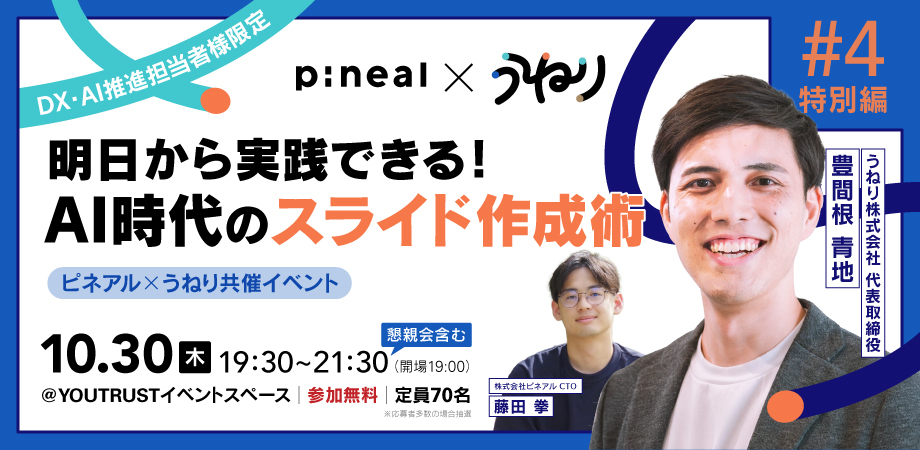
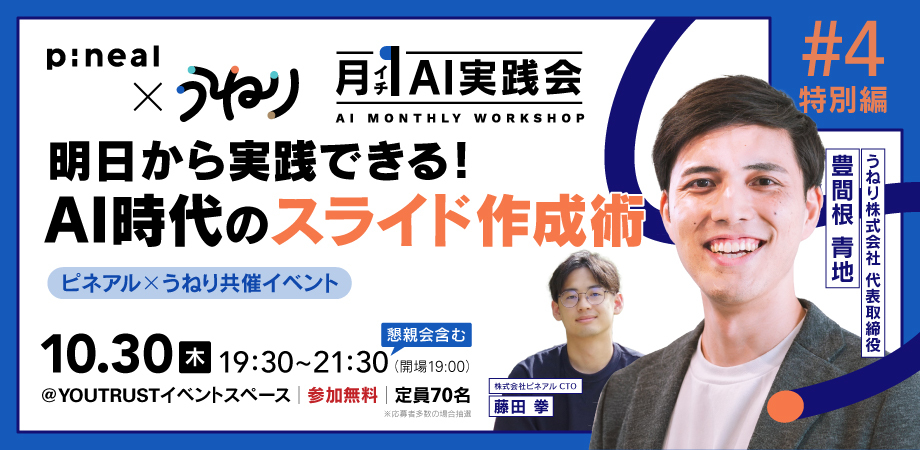
更新: バナー画像、申し込みフォーム、表現の修正
- バナー画像を最新版に差し替え
- 申し込みフォームをMicrosoft Formsに変更
- 「パワポ芸人」を「パワポ社長」に変更（プロフィール部分を除く）
- プログラム説明文を更新
- パネルディスカッションの内容を更新

🤖 Generated with [Claude Code](https://claude.com/claude-code)

Changed region(s): [[0.0, 0.0, 0.6696, 0.28], [0.0304, 0.3111, 0.5478, 0.4044]]

diff --git a/index.html b/index.html
@@ -15,7 +15,7 @@
         </div>
         <div class="hero-bottom">
             <div class="container text-center">
-                <a href="https://forms.gle/1ScMyFpcFPGTF11q9" target="_blank" rel="noopener noreferrer" class="hero-cta">
+                <a href="https://forms.office.com/r/9ijLsEaSVS" target="_blank" rel="noopener noreferrer" class="hero-cta">
                     今すぐ申し込む
                     <svg class="arrow" width="20" height="20" viewBox="0 0 20 20" fill="none">
                         <path d="M7 5L12 10L7 15" stroke="currentColor" stroke-width="2" stroke-linecap="round" stroke-linejoin="round"/>
@@ -29,7 +29,7 @@
         <div class="container">
             <div class="intro-grid">
                 <div class="intro-main">
-                    <h2 class="section-title">スライド作成のプロと、<br>生成AI活用のプロが語る<br><span class="gradient-text">生成AI時代</span>のスライド作成術</h2>
+                    <h2 class="section-title">パワポ芸人×ピネアルCTOが語る<br><span class="gradient-text">生成AI時代</span>の資料作成術</h2>
                     <p class="intro-lead">
                         AIで効率化する技術と、<br>
                         相手の心を動かす「伝わる」資料の本質を学ぶ特別イベント
@@ -38,11 +38,11 @@
                 <div class="intro-points">
                     <div class="point-item">
                         <div class="point-icon">✅</div>
-                        <div class="point-text">パワポ芸人直伝のスライド作成の極意</div>
+                        <div class="point-text">パワポ社長直伝の資料作成の極意</div>
                     </div>
                     <div class="point-item">
                         <div class="point-icon">✅</div>
-                        <div class="point-text">AIでスライド作成を自動化する実践手法</div>
+                        <div class="point-text">AIで資料作成を自動化する実践手法</div>
                     </div>
                     <div class="point-item">
                         <div class="point-icon">✅</div>
@@ -58,12 +58,12 @@
             <h2 class="section-title">イベント概要</h2>
             <div class="about-content">
                 <p>pinealが毎月開催している、企業のDX・AI推進担当者様向けの「月イチAI実践会」。</p>
-                <p>今月は、スライド作成のプロであり、「パワポ芸人」としてXフォロワー12万人、Youtube登録者数8.3万人を誇る、<strong>うねり株式会社CEOの豊間根さん</strong>をスペシャルゲストにお招きし、<strong>「生成AI×スライド作成」</strong>をテーマに特別イベントを開催します。</p>
+                <p>今月は、資料作成のプロであり、「パワポ社長」としてXフォロワー12万人、Youtube登録者数8.3万人を誇る、<strong>うねり株式会社CEOの豊間根さん</strong>をスペシャルゲストにお招きし、<strong>「生成AI×パワポ作成」</strong>をテーマに特別イベントを開催します。</p>
                 <div class="about-highlight">
-                    <p>「今、AIを使ってスライド作成をするならどのやり方がベストなの？」<br>
+                    <p>「今、AIを使って資料作成をするならどのやり方がベストなの？」<br>
                     「そもそも、相手に『伝わる』資料の作り方がわからない…」</p>
                 </div>
-                <p>そのようなお悩みをお持ちの方のために、本イベントでは、AIによるスライド作成の自動化・効率化の技術と、聞き手の心を動かす「伝わる」スライド作成の本質を、パネルディスカッションを通じて徹底解説します。</p>
+                <p>そのようなお悩みをお持ちの方のために、本イベントでは、AIによる資料作成の自動化・効率化の技術と、聞き手の心を動かす「伝わる」資料作成の本質を、パネルディスカッションを通じて徹底解説します。</p>
                 <p>美味しいお食事もご用意しておりますので、他社の担当者様との情報交換の場としても、ぜひご活用ください。</p>
             </div>
         </div>
@@ -76,29 +76,29 @@
                 <div class="timeline-item">
                     <div class="timeline-time">1</div>
                     <div class="timeline-content">
-                        <h4>パワポ芸人直伝！「伝わる資料」の極意</h4>
-                        <p>数々の企業のスライド作成を手掛けてきた「パワポ芸人」豊間根氏が登壇。AI時代だからこそ価値が高まる、普遍的なスライド作成のポイントや、聞き手の納得感を引き出す構成術など、明日からすぐに使える実践的なノウハウを学びます。</p>
+                        <h4>パワポ社長直伝！「伝わる資料」の極意</h4>
+                        <p>SNS総フォロワー12万人、数々の企業向けに資料作成・研修の支援を行ってきたうねり(旧シリョサク)代表の豊間根氏が登壇。AI時代において、必要な資料と不要な資料とはなにか、AI×資料作成のメソッドなど実践的なノウハウを学びます。</p>
                     </div>
                 </div>
                 <div class="timeline-item">
                     <div class="timeline-time">2</div>
                     <div class="timeline-content">
-                        <h4>生成AIを用いた「スライド作成」のベストプラクティス</h4>
-                        <p>AIエージェントやGoogle Apps Script(GAS)でスライド作成を自動化する方法をはじめ、AIを使ってスライドの構成案を考え、自動化する具体的な手法を、ピネアル藤田が解説。AIと人間が協業し、スライド作成の質とスピードを最大化する方法を学びます。</p>
+                        <h4>生成AIを用いた「資料作成」のベストプラクティス</h4>
+                        <p>AIエージェントやGoogle Apps Script(GAS)でスライド作成を自動化する方法をはじめ、AIを使って資料の構成案を考え、自動化する具体的な手法を、ピネアル藤田が解説。AIと人間が協業し、資料作成の質とスピードを最大化する方法を学びます。</p>
                     </div>
                 </div>
                 <div class="timeline-item">
                     <div class="timeline-time">3</div>
                     <div class="timeline-content">
                         <h4>パネルディスカッション</h4>
-                        <p>「AIが生成した『80点の資料』を『120点』に引き上げる、プロの最後のひと手間とは？」など、参加者が本当に知りたいテーマについて、豊間根氏と藤田がそれぞれの専門家の視点から徹底討論。ライブでAIが生成したスライドへの公開ダメ出し企画も！</p>
+                        <p>「AIに任せるべき仕事と、人間が手放してはいけない仕事の境界線は？」といったテーマから、日々の業務に役立つ「生成AI×スライド作成術」、さらには「AI時代の仕事論」まで。参加者の皆様が本当に知りたい内容について、参加者の皆様からのリアルなご質問も交えながら、豊間根氏と藤田氏が専門家の視点で徹底討論いたします。</p>
                     </div>
                 </div>
                 <div class="timeline-item">
                     <div class="timeline-time">4</div>
                     <div class="timeline-content">
                         <h4>交流会</h4>
-                        <p>お食事を囲みながら、登壇者や参加者同士で気軽に情報交換できる時間です。スライド作成に関する日頃の悩みや、AI活用のアイデアなどを語り合いましょう！</p>
+                        <p>お食事を囲みながら、登壇者や参加者同士で気軽に情報交換できる時間です。資料作成に関する日頃の悩みや、AI活用のアイデアなどを語り合いましょう！</p>
                     </div>
                 </div>
             </div>
@@ -110,35 +110,23 @@
             <h2 class="section-title">登壇者</h2>
             <div class="speakers-grid">
                 <div class="speaker-card">
-                    <div class="speaker-photo-container">
-                        <img src="photo_toyomane.png" alt="豊間根 青地" class="speaker-photo speaker-photo-toyomane">
-                    </div>
                     <div class="speaker-header">
                         <h3>豊間根 青地</h3>
                         <p class="speaker-title">うねり株式会社代表取締役</p>
                     </div>
                     <div class="speaker-bio">
                         <p>1994年東京都生まれ、東京大学工学部卒。サントリーで通販事業のCRM・広告などを担当する傍ら、趣味のPowerPointで作成したネタ投稿がSNSで反響を呼び、「パワポ芸人」として12万人以上のフォロワーを集める。2022年に独立し、AI時代の思考法を研修やコンテンツ制作を通じて提供し、人を育て組織を動かす会社「うねり株式会社（旧：シリョサク）」を創業。</p>
-                        <div class="speaker-books">
-                            <p>著書：『秒で伝わるパワポ術』（KADOKAWA）</p>
-                            <img src="book_toyomane.jpg" alt="秒で伝わるパワポ術" class="book-cover">
-                        </div>
+                        <p class="speaker-books">著書：『秒で伝わるパワポ術』『秒で使えるパワポ術』（KADOKAWA）</p>
                     </div>
                 </div>
                 <div class="speaker-card">
-                    <div class="speaker-photo-container">
-                        <img src="photo_fujita.webp" alt="藤田 拳" class="speaker-photo">
-                    </div>
                     <div class="speaker-header">
                         <h3>藤田 拳</h3>
                         <p class="speaker-title">株式会社ピネアル CTO</p>
                     </div>
                     <div class="speaker-bio">
                         <p>2017年東京大学工学部卒業、2019年東京大学大学院新領域創成科学研究科修了。新卒でAGC株式会社に入社し、機械学習を応用した次世代デバイスの研究開発に従事。その後、株式会社ピネアルに参画し、CTOとして生成AI事業を立ち上げる。マーケティング領域における生成系AIを組み合わせたシステムを多数開発し、大手メーカーから官公庁まで幅広いクライアントのDX・AI活用の教育・導入支援をリードしている。</p>
-                        <div class="speaker-books">
-                            <p>著書：『マーケ領域で実践されている生成系AIの技術』</p>
-                            <img src="book_fujita.jpg" alt="マーケ領域で実践されている生成系AIの技術" class="book-cover">
-                        </div>
+                        <p class="speaker-books">著書：『マーケ領域で実践されている生成系AIの技術』</p>
                     </div>
                 </div>
             </div>
@@ -199,27 +187,13 @@
         <div class="container">
             <div class="cta-box">
                 <h2>皆様のご参加を、心よりお待ちしております！</h2>
-                <p>定員70名（抽選結果は10/27までにご連絡いたします）</p>
-                <a href="https://forms.gle/1ScMyFpcFPGTF11q9" target="_blank" rel="noopener noreferrer" class="cta-button">
+                <p>定員70名（抽選結果は10/27までにご連絡）</p>
+                <a href="https://forms.office.com/r/9ijLsEaSVS" target="_blank" rel="noopener noreferrer" class="cta-button">
                     今すぐ申し込む
                     <svg class="arrow" width="20" height="20" viewBox="0 0 20 20" fill="none">
                         <path d="M7 5L12 10L7 15" stroke="currentColor" stroke-width="2" stroke-linecap="round" stroke-linejoin="round"/>
                     </svg>
                 </a>
-            </div>
-        </div>
-    </section>
-
-    <section class="privacy">
-        <div class="container">
-            <h2 class="section-title">個人情報について</h2>
-            <div class="privacy-content">
-                <p>イベント案内やフォローアップのため、ご連絡する場合があります。<br>個人情報はプライバシーポリシーに基づき適切に管理します。</p>
-                <div class="privacy-links">
-                    <a href="https://pineal.co.jp/privacypolicy" target="_blank" rel="noopener noreferrer">株式会社pineal プライバシーポリシー</a>
-                    <a href="https://uneri-inc.co.jp/privacy-policy" target="_blank" rel="noopener noreferrer">うねり株式会社 プライバシーポリシー</a>
-                    <a href="https://youtrust.jp/privacy_policy" target="_blank" rel="noopener noreferrer">株式会社YOUTRUST プライバシーポリシー</a>
-                </div>
             </div>
         </div>
     </section>
@@ -231,4 +205,5 @@
     </footer>
 </body>
 </html>
+
 
